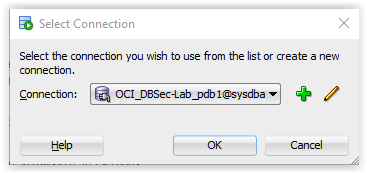
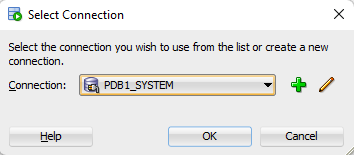
dbseclab-v5

diff --git a/database/advanced/data-masking-subsetting/data-masking-subsetting.md b/database/advanced/data-masking-subsetting/data-masking-subsetting.md
@@ -881,11 +881,11 @@ To execute the Data Masking script you will need an SSH key-pair and **DO  NOT**
 
 1. Once the job successfully completes, query the masked data in the Development and Production environments for a before and after comparison
 
-2. Open **SQL Developer** on your PC and connect to **pdb1 as sysdba**
+2. Open **SQL Developer** on your PC and connect to **pdb1 as SYSTEM**
 
     ![](./images/dms-093.png " ")
 
-3. Press [**Alt**]+[**F10**] to open a SQL Worksheet and select `pdb1@sysdba`
+3. Press [**Alt**]+[**F10**] to open a SQL Worksheet and select `PDB1_SYSTEM`
 
     ![](./images/dms-094.png " ")
 
@@ -1161,11 +1161,11 @@ Once you've defined all the data subsetting definitions in Step 13, it's time to
 
 1. Once the job successfully completes, query the subsetted data in the Development and Production environments for a before and after comparison
 
-2. Open **SQL Developer** on your PC and connect to **pdb1 as sysdba**
+2. Open **SQL Developer** on your PC and connect to **pdb1 as SYSTEM**
 
     ![](./images/dms-093.png " ")
 
-3. Press [**Alt**]+[**F10**] to open a SQL Worksheet and select `pdb1@sysdba`
+3. Press [**Alt**]+[**F10**] to open a SQL Worksheet and select `PDB1_SYSTEM`
 
     ![](./images/dms-094.png " ")
 
@@ -1454,11 +1454,11 @@ Now, let's have a look on few advanced features for Data Masking
 
 21. Now, you can compare the data between PROD and DEV
 
-    - Open **SQL Developer** on your PC and connect to **pdb1 as sysdba**
+    - Open **SQL Developer** on your PC and connect to **pdb1 as SYSTEM**
 
         ![](./images/dms-093.png " ")
 
-    - Press [**Alt**]+[**F10**] to open a SQL Worksheet and select `pdb1@sysdba`
+    - Press [**Alt**]+[**F10**] to open a SQL Worksheet and select `PDB1_SYSTEM`
 
         ![](./images/dms-094.png " ")
 
